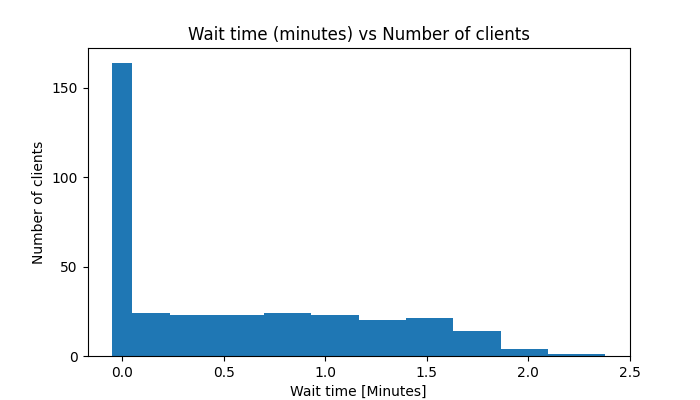
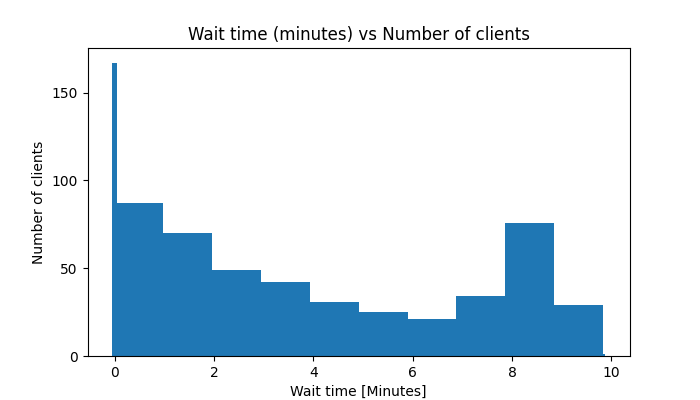
working separate pool

diff --git a/callcenter/CallCenter.py b/callcenter/CallCenter.py
@@ -45,14 +45,20 @@ class CallCenter:
         sim_mode = self.user_parameters.get("Simulation Mode")
         sim_map = {'Regular': 'Regular', "Separate Queues": "SeparatePool", "Priority Queue": "PriorityQueue"}
         self.mode = sim_map[sim_mode]  # PriorityQueue, SeparatePool, Regular
+        # if self.mode == 'SeparatePool':
+        #     self.mode = 'PriorityQueue'
         self.n_high_tech_employees = int(self.user_parameters.get("High-Tech Employees"))
         self.n_industry_employees = int(self.user_parameters.get("Industry Employees"))
         self.curr_time = TimeHelper.string__to_full_time('01-01-2021 08:00:00')
         self.opening_hour = TimeHelper.string_to_hour('08:00:00')
         self.closing_hour = TimeHelper.string_to_hour('23:00:00')
         self.n_restaurants = 1_000
-        self.call_queue = CallQueue(self.mode)
-        self.chat_queue = ChatQueue(self.mode)
+        if self.mode == "SeparatePool":
+            self.call_queue = CallQueue("PriorityQueue")
+            self.chat_queue = ChatQueue("PriorityQueue")
+        else:
+            self.call_queue = CallQueue(self.mode)
+            self.chat_queue = ChatQueue(self.mode)
         self.n_rest_in_queue = 0
         self.rest_call_proportion = 0.03  # 3% of all calls belong to restaurants
         self.weather = self.user_parameters.get("Weather").lower()
@@ -64,16 +70,26 @@ class CallCenter:
         Probabilities.rain_factor = float(self.user_parameters.get("Rain Factor"))
         Probabilities.holiday = self.user_parameters.get("Holiday")
         if self.mode == 'SeparatePool':
-            percentage_of_rest_agents = 0.2  # 20% of the agents will answer calls from restaurants
-            self.n_rest_agents = math.ceil(
-                self.starting_number_of_agents * percentage_of_rest_agents)  # At least 1 agent
-            self.n_end_client_agents = self.starting_number_of_agents - self.n_rest_agents  # Other agents serve clients
-            # i % 2 condition splits half the agents for chat duty other half for calls
-            self.end_service_agents = [
-                CustomerServiceAgent(i, self.call_queue if i % 2 == 0 else self.chat_queue, self.curr_time) for i in
-                range(self.n_end_client_agents)]
-            self.rest_service_agents = [CustomerServiceAgent(i, self.call_queue, self.curr_time) for i in
-                                        range(self.n_rest_agents)]
+            self.mode = 'PriorityQueue'
+            percentage_of_rest_agents = 0.7  # 10% of the agents will answer calls from restaurants
+            n_call_agents = math.ceil(self.starting_number_of_agents * percentage_of_rest_agents)
+            #     self.starting_number_of_agents * percentage_of_rest_agents)  # At least 1 agent
+
+            self.service_agents = [CustomerServiceAgent(i, self.call_queue, self.curr_time) for i in
+                                   range(n_call_agents)]
+            for i in range(n_call_agents, self.starting_number_of_agents):
+                self.service_agents.append(CustomerServiceAgent(i, self.chat_queue, self.curr_time))
+
+            # percentage_of_rest_agents = 0.2  # 20% of the agents will answer calls from restaurants
+            # self.n_rest_agents = math.ceil(
+            #     self.starting_number_of_agents * percentage_of_rest_agents)  # At least 1 agent
+            # self.n_end_client_agents = self.starting_number_of_agents - self.n_rest_agents  # Other agents serve clients
+            # # i % 2 condition splits half the agents for chat duty other half for calls
+            # self.end_service_agents = [
+            #     CustomerServiceAgent(i, self.call_queue if i % 2 == 0 else self.chat_queue, self.curr_time) for i in
+            #     range(self.n_end_client_agents)]
+            # self.rest_service_agents = [CustomerServiceAgent(i, self.call_queue, self.curr_time) for i in
+            #                             range(self.n_rest_agents)]
         else:  # Regular and PriorityQueue
             # i % 2 condition splits half the agents for chat duty other half for calls
             self.service_agents = [
@@ -150,10 +166,10 @@ class CallCenter:
 
         # # Generate new chats and call arrivals
         next_contact_time = self.curr_time + datetime.timedelta(hours=Probabilities.contact_rate(self.curr_time,
-                                                                                           self.n_rest_in_queue,
-                                                                                           self.n_high_tech_employees,
-                                                                                           self.n_industry_employees,
-                                                                                           self.weather))
+                                                                                                 self.n_rest_in_queue,
+                                                                                                 self.n_high_tech_employees,
+                                                                                                 self.n_industry_employees,
+                                                                                                 self.weather))
 
         if np.random.uniform(0, 1) < 0.03:  # 3% are rests
             hpq.heappush(self.events,
@@ -178,7 +194,7 @@ class CallCenter:
         self.day_metrics.add_call_or_chat(client_data)
         break_time = agent.end_call_or_chat()
         logger.debug(
-            f"{agent} - break? {break_time} at {self.curr_time}. ending {agent.task_assigned} - duration: {client_data.service_time / 60 }")
+            f"{agent} - break? {break_time} at {self.curr_time}. ending {agent.task_assigned} - duration: {client_data.service_time / 60}")
         if break_time:
             logger.debug(f"Agent {agent} is going for a break for {break_time // 60} minutes at {self.curr_time}")
             hpq.heappush(self.events,
@@ -368,7 +384,8 @@ class CallCenter:
             Graphs.plot_rest_wait_histogram(self.day_metrics.get_rest_wait_histogram())
             Graphs.plot_system_hist_chats(*self.day_metrics.system_state_hist_chats())
             Graphs.plot_client_wait_histogram(self.day_metrics.get_client_call_wait_histogram())
-            Graphs.plot_system_hist_calls(*self.day_metrics.system_state_hist_calls())  # must be last to display results correctly
+            Graphs.plot_system_hist_calls(
+                *self.day_metrics.system_state_hist_calls())  # must be last to display results correctly
             # reset day
             self.events = []
             self.curr_time = TimeHelper.set_next_day(self.curr_time)

diff --git a/callcenter/Metrics.py b/callcenter/Metrics.py
@@ -1,6 +1,6 @@
 import datetime
 from collections import defaultdict
-
+from helpers import TimeHelper
 import numpy as np
 
 
@@ -27,6 +27,15 @@ class Metrics:
         self.arrival_histogram = defaultdict(int)
     # Number of end employees ratio to agents
     # What is the number of agents needed to provide SLA when a new company of size X signs?
+
+    @staticmethod
+    def _create_hours_strings(time: datetime.datetime):
+        """
+        Create a string of half hours to store data in dictionary by half hours
+        @param time:
+        @return:
+        """
+        return f"{time.hour}.{5 if time.minute // 30 > 0 else 0}"
 
     def add_call_or_chat(self, client_data):
         contact_method = client_data.contact_method
@@ -66,12 +75,11 @@ class Metrics:
             if call.wait_time < 0:
                 continue
             abandon_time = call.arrival_time + datetime.timedelta(minutes=call.wait_time)
-            call_abandon_hist[f"{abandon_time.hour}.{5 if abandon_time.minute // 30 > 0 else 0}"] += 1
+            call_abandon_hist[self._create_hours_strings(abandon_time)] += 1
         return call_abandon_hist
 
     def get_chat_abandonments(self):
         chat_abandon_hist = defaultdict(int)
-
 
     def get_rest_calls(self):
         return [call for call in self.calls if call.client_type == 'Restaurant']
@@ -102,7 +110,6 @@ class Metrics:
                 continue
             calls_hist[round(call.wait_time, 2)] += 1
         return calls_hist
-
 
     def system_state_hist_calls(self):
         system_hist = {}

diff --git a/callcenter/Graphs.py b/callcenter/Graphs.py
@@ -67,9 +67,9 @@ class Graphs:
     @staticmethod
     def plot_system_hist_calls(clients, hours):
         fig, ax = plt.subplots(figsize=(7, 4))
-        ax.set_title('Hours of the day vs Clients in the system')
+        ax.set_title('Hours of the day vs Calls in the system')
         ax.set_xlabel('Hours of the day')
-        ax.set_ylabel('Number of people in the system')
+        ax.set_ylabel('Number of calls in the system')
         ax.set_yticks(ticks=np.arange(0, 100, 2))
         plt.stairs(clients, hours)
         plt.savefig('../flask/static/images/calls.png')
